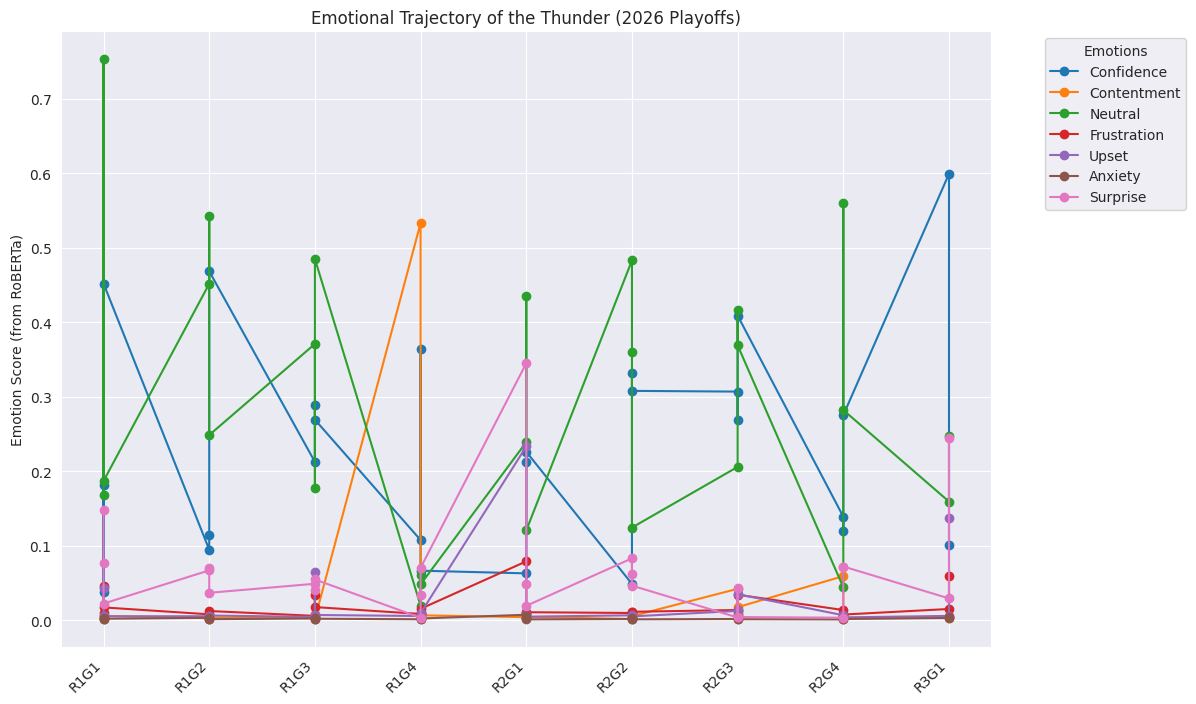
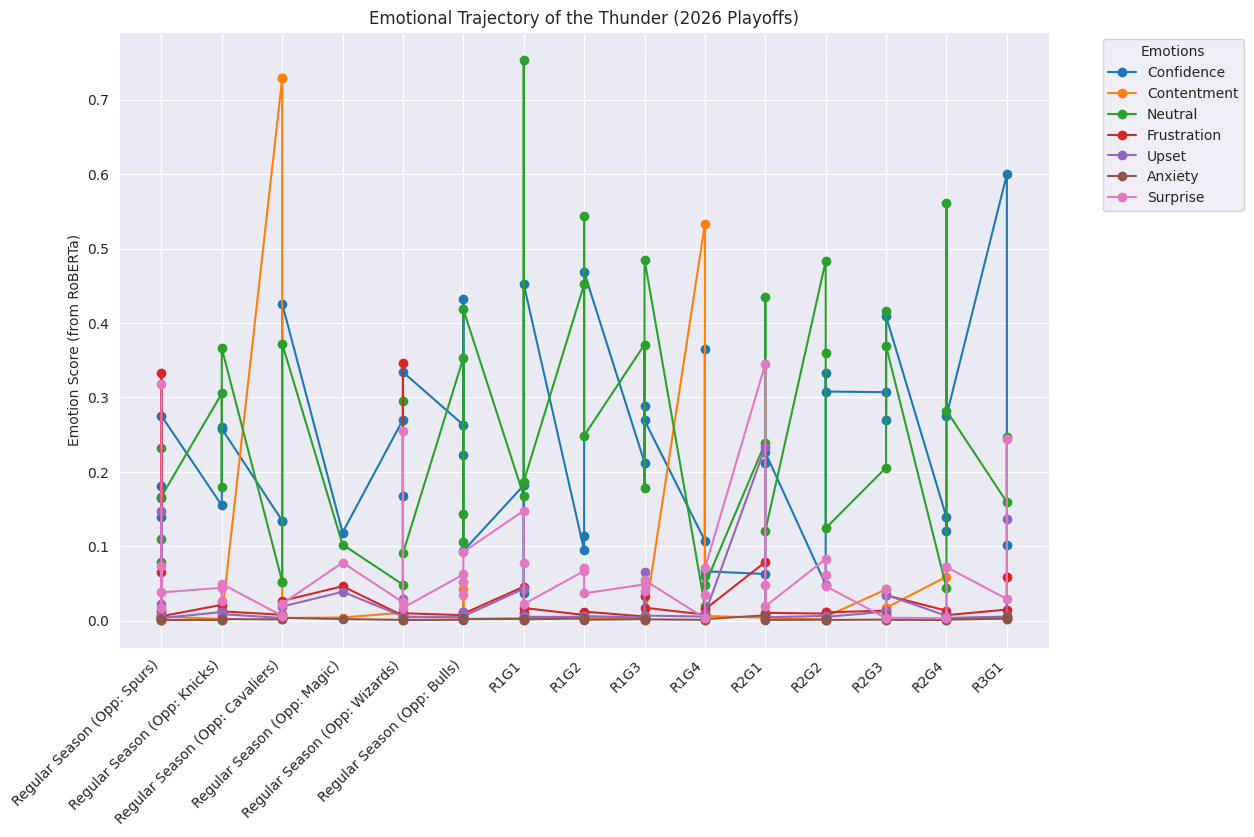
Updated images, began streamlit

diff --git a/scripts/visualization.py b/scripts/visualization.py
@@ -19,19 +19,31 @@ class EmotionVisualizer:
     def plot_time_series(self, df, team_name):
         logging.info(f"Making the graph for the {team_name}...")
         
-        # I want the graph to look clean, so I am using seaborn's darkgrid style
         sns.set_style("darkgrid")
         plt.figure(figsize=(12, 8))
-        team_df = df[df['team'] == team_name]
-        
-        # Error handling for if we don't have data for the team
-        team_df = team_df[~team_df['stage'].str.contains("Reg Season", na=False)]
+        team_df = df[df['team'] == team_name].copy() 
         
         if (team_df.empty == True):
             logging.warning(f"No data found for {team_name}, skipping this graph.")
             return False
             
-        stages = team_df['stage']
+        # --- NEW CODE: Extract opponent name and reformat the string ---
+        clean_stages = []
+        for stage in team_df['stage']:
+            if "Reg Season" in stage:
+                try:
+                    # Parses "Reg Season - Magic (Opponent)" -> extracts "Magic"
+                    opp_name = stage.split('-')[1].split('(')[0].strip()
+                    clean_stages.append(f"Regular Season (Opp: {opp_name})")
+                except Exception:
+                    # Fallback just in case a string is formatted weirdly
+                    clean_stages.append("Regular Season")
+            else:
+                clean_stages.append(stage)
+                
+        team_df['clean_stage'] = clean_stages
+        
+        stages = team_df['clean_stage']
         
         # Plotting each of our 7 emotions as a separate line
         plt.plot(stages, team_df['confidence'], label='Confidence', marker='o')
@@ -45,7 +57,7 @@ class EmotionVisualizer:
         plt.title(f"Emotional Trajectory of the {team_name} (2026 Playoffs)")
         plt.ylabel("Emotion Score (from RoBERTa)")
         
-        # Tilting the x-axis labels so they don't overlap now that we have 20+ games!
+        # Tilting the x-axis labels so they don't overlap
         plt.xticks(rotation=45, ha='right')
         
         plt.legend(title="Emotions", bbox_to_anchor=(1.05, 1), loc='upper left')
@@ -56,7 +68,6 @@ class EmotionVisualizer:
         
         logging.info(f"Saved the graph to {filepath}")
         return True
-
     # New function to compare the average emotions of two teams side-by-side
     def plot_finals_comparison_bar(self, df, team_winner, team_loser, matchup_name):
         logging.info(f"Making the comparison graph for {matchup_name}...")
